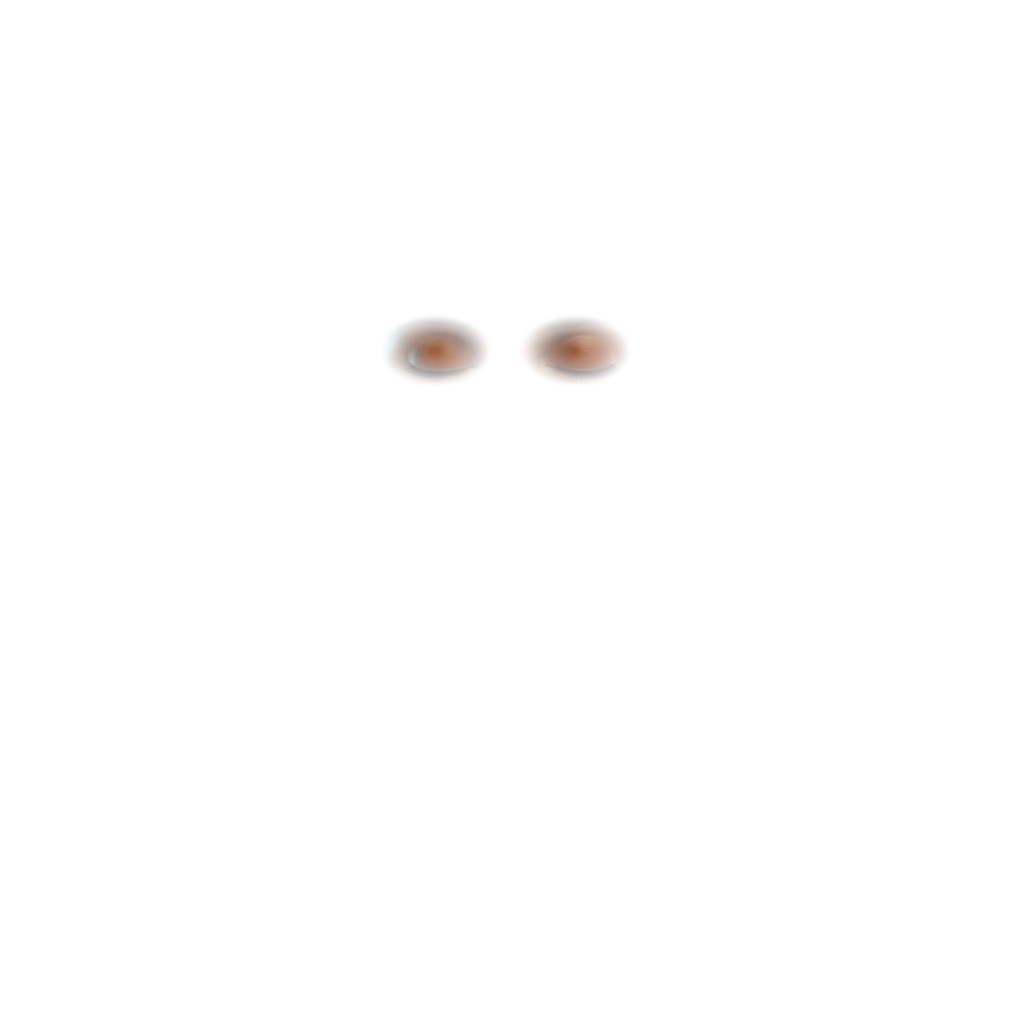
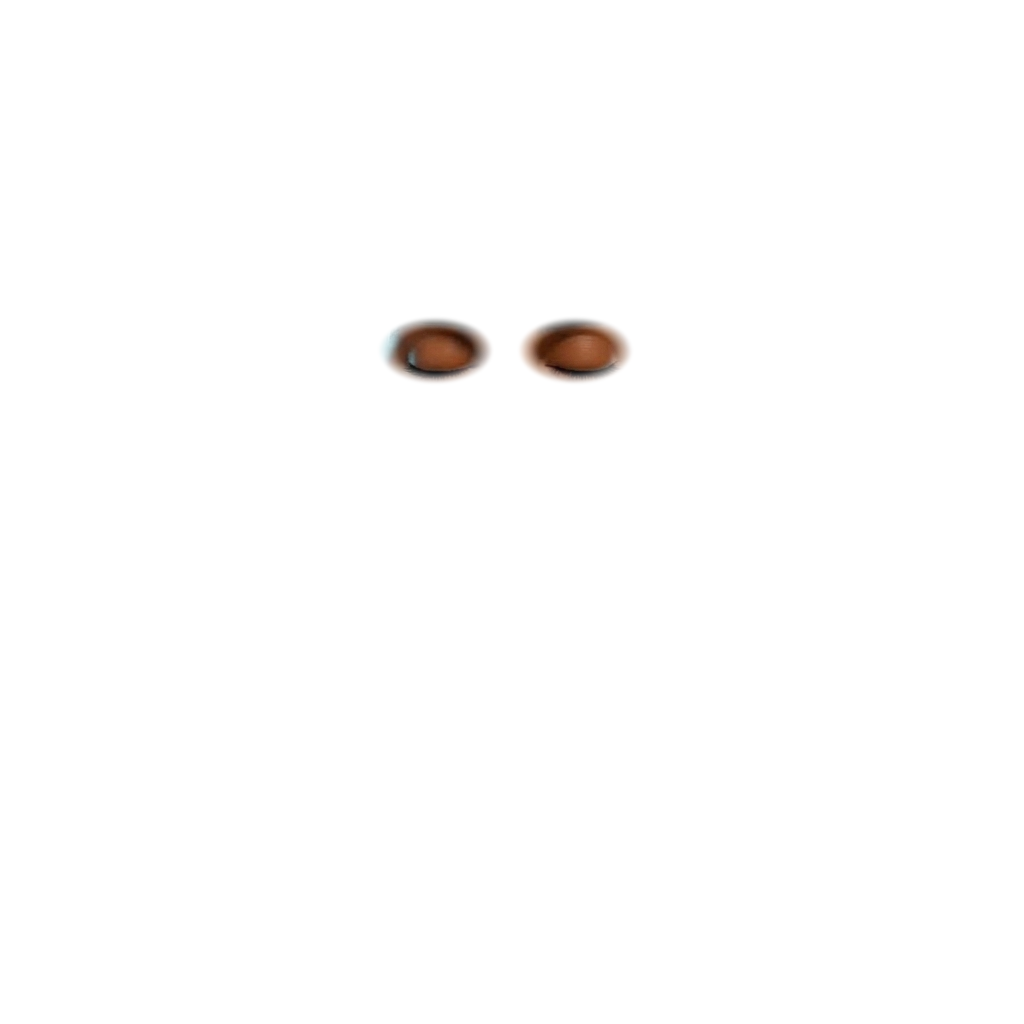
fix: implement realistic snappy solid eye blinking and centered lip-sync mouth opening

Changed region(s): [[0.375, 0.3125, 0.625, 0.375]]

diff --git a/src/components/hero/HeroAvatarCanvas.jsx b/src/components/hero/HeroAvatarCanvas.jsx
@@ -60,14 +60,17 @@ const HeroAvatarCanvas = ({ isSpeaking = false, audioLevel = 0, onToggleSpeak })
     scene.add(characterGroup);
 
     let eyelidMat = null;
+    let eyelidMesh = null;
+    let mouthPivotGroup = null;
     let mouthMesh = null;
     let mouthMat = null;
+    let currentMouthOpen = 0.0;
 
     const planeGeom = new THREE.PlaneGeometry(7.6, 7.6);
 
     // Load Base Character (Open Eyes & Neutral Mouth)
     textureLoader.load(
-      '/models/karthick_straight_open.png?v=6',
+      '/models/karthick_straight_open.png?v=7',
       (baseTex) => {
         baseTex.colorSpace = THREE.SRGBColorSpace;
         baseTex.generateMipmaps = true;
@@ -85,9 +88,9 @@ const HeroAvatarCanvas = ({ isSpeaking = false, audioLevel = 0, onToggleSpeak })
         baseMesh.position.set(0, -0.2, 0);
         characterGroup.add(baseMesh);
 
-        // Load Eyelids Layer (For Natural Eye Blinking)
+        // Load Eyelids Layer (For Natural Solid Eye Blinking)
         textureLoader.load(
-          '/models/karthick_eyelids.png?v=6',
+          '/models/karthick_eyelids.png?v=7',
           (eyelidTex) => {
             eyelidTex.colorSpace = THREE.SRGBColorSpace;
             eyelidTex.generateMipmaps = true;
@@ -101,15 +104,16 @@ const HeroAvatarCanvas = ({ isSpeaking = false, audioLevel = 0, onToggleSpeak })
               side: THREE.DoubleSide,
             });
 
-            const eyelidMesh = new THREE.Mesh(planeGeom, eyelidMat);
+            eyelidMesh = new THREE.Mesh(planeGeom, eyelidMat);
             eyelidMesh.position.set(0, -0.2, 0.01);
+            eyelidMesh.visible = false;
             characterGroup.add(eyelidMesh);
           }
         );
 
-        // Load Open Mouth Layer (For Real Human Speaking Lip-Sync)
+        // Load Open Mouth Layer with Pivot Centered on Mouth Line
         textureLoader.load(
-          '/models/karthick_mouth_open.png?v=6',
+          '/models/karthick_mouth_open.png?v=7',
           (mouthTex) => {
             mouthTex.colorSpace = THREE.SRGBColorSpace;
             mouthTex.generateMipmaps = true;
@@ -123,9 +127,14 @@ const HeroAvatarCanvas = ({ isSpeaking = false, audioLevel = 0, onToggleSpeak })
               side: THREE.DoubleSide,
             });
 
+            mouthPivotGroup = new THREE.Group();
+            mouthPivotGroup.position.set(-0.052, 0.0746, 0.02);
+
             mouthMesh = new THREE.Mesh(planeGeom, mouthMat);
-            mouthMesh.position.set(0, -0.2, 0.02);
-            characterGroup.add(mouthMesh);
+            mouthMesh.position.set(0.052, -0.2746, 0);
+            mouthPivotGroup.add(mouthMesh);
+            mouthPivotGroup.visible = false;
+            characterGroup.add(mouthPivotGroup);
 
             setIsLoading(false);
           },
@@ -170,10 +179,10 @@ const HeroAvatarCanvas = ({ isSpeaking = false, audioLevel = 0, onToggleSpeak })
     resizeObserver.observe(container);
 
     // 6. Realistic Periodic Eye Blinking State
-    let nextBlinkTime = 2.5;
+    let nextBlinkTime = 2.2;
     let isBlinking = false;
     let blinkStartTime = 0;
-    const blinkDuration = 0.16; // 160ms natural human blink
+    const blinkDuration = 0.13; // 130ms natural human blink
 
     // 7. Animation Loop: Real Human Audio Lip-Sync + Eye Blinking
     let animationFrameId;
@@ -200,46 +209,78 @@ const HeroAvatarCanvas = ({ isSpeaking = false, audioLevel = 0, onToggleSpeak })
         characterGroup.rotation.set(0, 0, 0);
       }
 
-      // 1. Natural Eye Blinking Controller
-      if (eyelidMat) {
+      // 1. Natural Eye Blinking Controller (Fast, snappy, solid eyelids without ghosting)
+      if (eyelidMat && eyelidMesh) {
         if (!isBlinking && elapsedTime >= nextBlinkTime) {
           isBlinking = true;
           blinkStartTime = elapsedTime;
+          eyelidMesh.visible = true;
         }
 
         if (isBlinking) {
           const progress = (elapsedTime - blinkStartTime) / blinkDuration;
           if (progress >= 1.0) {
             eyelidMat.opacity = 0.0;
+            eyelidMesh.visible = false;
             isBlinking = false;
-            const isDoubleBlink = Math.random() < 0.22;
-            nextBlinkTime = elapsedTime + (isDoubleBlink ? 0.22 : 3.2 + Math.random() * 2.2);
+            const isDoubleBlink = Math.random() < 0.2;
+            nextBlinkTime = elapsedTime + (isDoubleBlink ? 0.25 : 3.0 + Math.random() * 2.5);
           } else {
-            eyelidMat.opacity = Math.sin(progress * Math.PI);
+            eyelidMesh.visible = true;
+            let eyeAlpha = 1.0;
+            if (progress < 0.25) {
+              eyeAlpha = progress / 0.25;
+            } else if (progress > 0.75) {
+              eyeAlpha = (1.0 - progress) / 0.25;
+            } else {
+              eyeAlpha = 1.0;
+            }
+            eyelidMat.opacity = eyeAlpha;
           }
         }
       }
 
-      // 2. Real Human Lip-Sync Controller (Relaxed Medium Speaking Pace)
-      if (mouthMat && mouthMesh) {
+      // 2. Real Human Lip-Sync Controller (Vertical Mouth Opening & Natural Syllable Articulation)
+      if (mouthMat && mouthPivotGroup) {
         if (isSpeakingRef.current) {
           const level = audioLevelRef.current;
           
-          // Relaxed syllable cadence (~4-5 syllables per second matching medium speech)
-          const syllableOsc = Math.sin(elapsedTime * 8.5) * 0.35 + 0.65;
-          const targetOpacity = Math.min(0.9, (level > 0.04 ? level * 1.25 : Math.max(0, Math.sin(elapsedTime * 7.0) * 0.75)) * syllableOsc);
+          // Natural syllable cadence (~4-5 syllables per second matching medium speech)
+          const syllableWave = Math.sin(elapsedTime * 9.0) * 0.5 + 0.5;
           
-          // Fluid, natural mouth transitions (smooth medium opening and closing)
-          mouthMat.opacity = THREE.MathUtils.lerp(mouthMat.opacity, targetOpacity, 0.18);
+          // Calculate realistic mouth open amount (0 = closed, 1 = fully open)
+          let targetOpen = 0.0;
+          if (level > 0.03) {
+            targetOpen = Math.min(1.0, (level * 1.5 + 0.2) * (0.35 + 0.65 * syllableWave));
+          } else {
+            targetOpen = 0.0;
+          }
+          
+          // Fluid, natural mouth transitions
+          currentMouthOpen = THREE.MathUtils.lerp(currentMouthOpen, targetOpen, 0.24);
 
-          // Subtle natural jaw movement
-          const openScaleY = 1.0 + mouthMat.opacity * 0.05;
-          const openScaleX = 1.0 + mouthMat.opacity * 0.02;
-          mouthMesh.scale.set(openScaleX, openScaleY, 1.0);
+          if (currentMouthOpen > 0.03) {
+            mouthPivotGroup.visible = true;
+            mouthMat.opacity = Math.min(1.0, currentMouthOpen * 3.5);
+            mouthPivotGroup.scale.set(1.0 + currentMouthOpen * 0.05, currentMouthOpen, 1.0);
+            mouthPivotGroup.position.y = 0.0746 - currentMouthOpen * 0.025;
+          } else {
+            mouthPivotGroup.visible = false;
+            mouthPivotGroup.scale.set(1.0, 0.0, 1.0);
+            mouthPivotGroup.position.y = 0.0746;
+          }
         } else {
-          // Smooth return to closed neutral smile
-          mouthMat.opacity = THREE.MathUtils.lerp(mouthMat.opacity, 0.0, 0.15);
-          mouthMesh.scale.set(1.0, 1.0, 1.0);
+          currentMouthOpen = THREE.MathUtils.lerp(currentMouthOpen, 0.0, 0.2);
+          if (currentMouthOpen <= 0.03) {
+            mouthPivotGroup.visible = false;
+            mouthPivotGroup.scale.set(1.0, 0.0, 1.0);
+            mouthPivotGroup.position.y = 0.0746;
+          } else {
+            mouthPivotGroup.visible = true;
+            mouthMat.opacity = Math.min(1.0, currentMouthOpen * 3.5);
+            mouthPivotGroup.scale.set(1.0 + currentMouthOpen * 0.05, currentMouthOpen, 1.0);
+            mouthPivotGroup.position.y = 0.0746 - currentMouthOpen * 0.025;
+          }
         }
       }
 

diff --git a/src/components/hero/HeroSection.jsx b/src/components/hero/HeroSection.jsx
@@ -18,7 +18,7 @@ const HeroSection = () => {
 
   // Initialize audio and Web Audio API analyser
   useEffect(() => {
-    const audio = new Audio('/audio/karthick_intro.mp3');
+    const audio = new Audio('/audio/karthick_intro.mp3?v=7');
     audioRef.current = audio;
 
     const handleEnded = () => {
